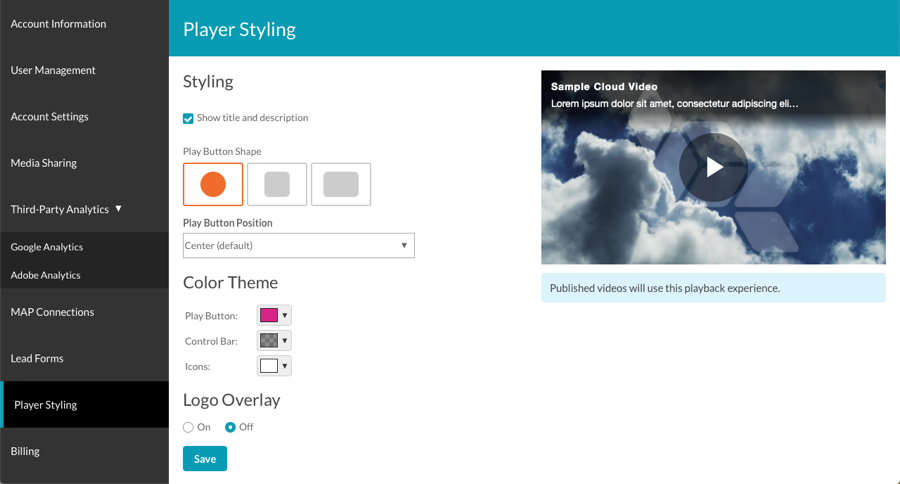
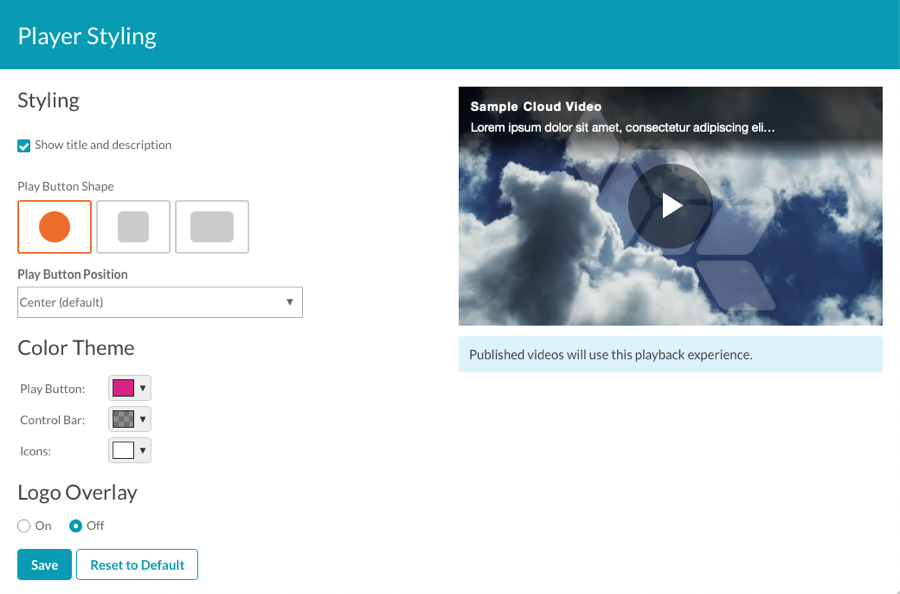
player styling reset and update product update page

diff --git a/vendor/bundle/ruby/2.6.0/gems/jekyll-4.1.1/lib/theme_template/example/style.css b/vendor/bundle/ruby/2.6.0/gems/jekyll-4.1.1/lib/theme_template/example/style.css
@@ -1,0 +1,35 @@
+/*
+Error: Invalid CSS after "...from-my-theme";": expected "{", was ""
+        on line 8 of /Users/bbailey/git/campaign/vendor/bundle/ruby/2.6.0/gems/jekyll-4.1.1/lib/theme_template/example/style.scss
+
+3: 
+4: // Here, you can test out the Sass/SCSS that you include in your theme.
+5: // Simply `@import` the necessary file(s) to get the proper styles on the site.
+6: // E.g.:
+7: //   @import "a-file-from-my-theme";
+
+Backtrace:
+/Users/bbailey/git/campaign/vendor/bundle/ruby/2.6.0/gems/jekyll-4.1.1/lib/theme_template/example/style.scss:8
+/Applications/Adobe Dreamweaver 2020/Adobe Dreamweaver 2020.app/Contents/Resources/gems/rubygems/gems/sass-3.7.4/lib/sass/scss/parser.rb:1308:in `expected'
+/Applications/Adobe Dreamweaver 2020/Adobe Dreamweaver 2020.app/Contents/Resources/gems/rubygems/gems/sass-3.7.4/lib/sass/scss/parser.rb:1238:in `expected'
+/Applications/Adobe Dreamweaver 2020/Adobe Dreamweaver 2020.app/Contents/Resources/gems/rubygems/gems/sass-3.7.4/lib/sass/scss/parser.rb:1233:in `tok!'
+/Applications/Adobe Dreamweaver 2020/Adobe Dreamweaver 2020.app/Contents/Resources/gems/rubygems/gems/sass-3.7.4/lib/sass/scss/parser.rb:688:in `block'
+/Applications/Adobe Dreamweaver 2020/Adobe Dreamweaver 2020.app/Contents/Resources/gems/rubygems/gems/sass-3.7.4/lib/sass/scss/parser.rb:681:in `ruleset'
+/Applications/Adobe Dreamweaver 2020/Adobe Dreamweaver 2020.app/Contents/Resources/gems/rubygems/gems/sass-3.7.4/lib/sass/scss/parser.rb:707:in `block_child'
+/Applications/Adobe Dreamweaver 2020/Adobe Dreamweaver 2020.app/Contents/Resources/gems/rubygems/gems/sass-3.7.4/lib/sass/scss/parser.rb:697:in `block_contents'
+/Applications/Adobe Dreamweaver 2020/Adobe Dreamweaver 2020.app/Contents/Resources/gems/rubygems/gems/sass-3.7.4/lib/sass/scss/parser.rb:137:in `stylesheet'
+/Applications/Adobe Dreamweaver 2020/Adobe Dreamweaver 2020.app/Contents/Resources/gems/rubygems/gems/sass-3.7.4/lib/sass/scss/parser.rb:41:in `parse'
+/Applications/Adobe Dreamweaver 2020/Adobe Dreamweaver 2020.app/Contents/Resources/gems/rubygems/gems/sass-3.7.4/lib/sass/engine.rb:414:in `_to_tree'
+/Applications/Adobe Dreamweaver 2020/Adobe Dreamweaver 2020.app/Contents/Resources/gems/rubygems/gems/sass-3.7.4/lib/sass/engine.rb:290:in `render'
+/Applications/Adobe Dreamweaver 2020/Adobe Dreamweaver 2020.app/Contents/Resources/gems/rubygems/gems/sass-3.7.4/lib/sass/exec/sass_scss.rb:396:in `run'
+/Applications/Adobe Dreamweaver 2020/Adobe Dreamweaver 2020.app/Contents/Resources/gems/rubygems/gems/sass-3.7.4/lib/sass/exec/sass_scss.rb:63:in `process_result'
+/Applications/Adobe Dreamweaver 2020/Adobe Dreamweaver 2020.app/Contents/Resources/gems/rubygems/gems/sass-3.7.4/lib/sass/exec/base.rb:50:in `parse'
+/Applications/Adobe Dreamweaver 2020/Adobe Dreamweaver 2020.app/Contents/Resources/gems/rubygems/gems/sass-3.7.4/lib/sass/exec/base.rb:18:in `parse!'
+/Applications/Adobe Dreamweaver 2020/Adobe Dreamweaver 2020.app/Contents/Resources/gems/rubygems/gems/sass-3.7.4/bin/sass:13:in `<top (required)>'
+/Applications/Adobe Dreamweaver 2020/Adobe Dreamweaver 2020.app/Contents/Resources/gems/bin/sass:34:in `load'
+/Applications/Adobe Dreamweaver 2020/Adobe Dreamweaver 2020.app/Contents/Resources/gems/bin/sass:34:in `<main>'
+*/
+body:before {
+  white-space: pre;
+  font-family: monospace;
+  content: "Error: Invalid CSS after \"...from-my-theme\";\": expected \"{\", was \"\"\A         on line 8 of /Users/bbailey/git/campaign/vendor/bundle/ruby/2.6.0/gems/jekyll-4.1.1/lib/theme_template/example/style.scss\A \A 3: \A 4: // Here, you can test out the Sass/SCSS that you include in your theme.\A 5: // Simply `@import` the necessary file(s) to get the proper styles on the site.\A 6: // E.g.:\A 7: //   @import \"a-file-from-my-theme\";"; }

diff --git a/vendor/bundle/ruby/2.6.0/gems/jekyll-4.1.1/lib/blank_template/assets/css/main.css b/vendor/bundle/ruby/2.6.0/gems/jekyll-4.1.1/lib/blank_template/assets/css/main.css
@@ -1,0 +1,34 @@
+/*
+Error: Invalid CSS after "@import "main"": expected "{", was ";"
+        on line 4 of /Users/bbailey/git/campaign/vendor/bundle/ruby/2.6.0/gems/jekyll-4.1.1/lib/blank_template/assets/css/main.scss
+
+1: ---
+2: ---
+3: 
+4: @import "main";
+
+Backtrace:
+/Users/bbailey/git/campaign/vendor/bundle/ruby/2.6.0/gems/jekyll-4.1.1/lib/blank_template/assets/css/main.scss:4
+/Applications/Adobe Dreamweaver 2020/Adobe Dreamweaver 2020.app/Contents/Resources/gems/rubygems/gems/sass-3.7.4/lib/sass/scss/parser.rb:1308:in `expected'
+/Applications/Adobe Dreamweaver 2020/Adobe Dreamweaver 2020.app/Contents/Resources/gems/rubygems/gems/sass-3.7.4/lib/sass/scss/parser.rb:1238:in `expected'
+/Applications/Adobe Dreamweaver 2020/Adobe Dreamweaver 2020.app/Contents/Resources/gems/rubygems/gems/sass-3.7.4/lib/sass/scss/parser.rb:1233:in `tok!'
+/Applications/Adobe Dreamweaver 2020/Adobe Dreamweaver 2020.app/Contents/Resources/gems/rubygems/gems/sass-3.7.4/lib/sass/scss/parser.rb:688:in `block'
+/Applications/Adobe Dreamweaver 2020/Adobe Dreamweaver 2020.app/Contents/Resources/gems/rubygems/gems/sass-3.7.4/lib/sass/scss/parser.rb:681:in `ruleset'
+/Applications/Adobe Dreamweaver 2020/Adobe Dreamweaver 2020.app/Contents/Resources/gems/rubygems/gems/sass-3.7.4/lib/sass/scss/parser.rb:707:in `block_child'
+/Applications/Adobe Dreamweaver 2020/Adobe Dreamweaver 2020.app/Contents/Resources/gems/rubygems/gems/sass-3.7.4/lib/sass/scss/parser.rb:697:in `block_contents'
+/Applications/Adobe Dreamweaver 2020/Adobe Dreamweaver 2020.app/Contents/Resources/gems/rubygems/gems/sass-3.7.4/lib/sass/scss/parser.rb:137:in `stylesheet'
+/Applications/Adobe Dreamweaver 2020/Adobe Dreamweaver 2020.app/Contents/Resources/gems/rubygems/gems/sass-3.7.4/lib/sass/scss/parser.rb:41:in `parse'
+/Applications/Adobe Dreamweaver 2020/Adobe Dreamweaver 2020.app/Contents/Resources/gems/rubygems/gems/sass-3.7.4/lib/sass/engine.rb:414:in `_to_tree'
+/Applications/Adobe Dreamweaver 2020/Adobe Dreamweaver 2020.app/Contents/Resources/gems/rubygems/gems/sass-3.7.4/lib/sass/engine.rb:290:in `render'
+/Applications/Adobe Dreamweaver 2020/Adobe Dreamweaver 2020.app/Contents/Resources/gems/rubygems/gems/sass-3.7.4/lib/sass/exec/sass_scss.rb:396:in `run'
+/Applications/Adobe Dreamweaver 2020/Adobe Dreamweaver 2020.app/Contents/Resources/gems/rubygems/gems/sass-3.7.4/lib/sass/exec/sass_scss.rb:63:in `process_result'
+/Applications/Adobe Dreamweaver 2020/Adobe Dreamweaver 2020.app/Contents/Resources/gems/rubygems/gems/sass-3.7.4/lib/sass/exec/base.rb:50:in `parse'
+/Applications/Adobe Dreamweaver 2020/Adobe Dreamweaver 2020.app/Contents/Resources/gems/rubygems/gems/sass-3.7.4/lib/sass/exec/base.rb:18:in `parse!'
+/Applications/Adobe Dreamweaver 2020/Adobe Dreamweaver 2020.app/Contents/Resources/gems/rubygems/gems/sass-3.7.4/bin/sass:13:in `<top (required)>'
+/Applications/Adobe Dreamweaver 2020/Adobe Dreamweaver 2020.app/Contents/Resources/gems/bin/sass:34:in `load'
+/Applications/Adobe Dreamweaver 2020/Adobe Dreamweaver 2020.app/Contents/Resources/gems/bin/sass:34:in `<main>'
+*/
+body:before {
+  white-space: pre;
+  font-family: monospace;
+  content: "Error: Invalid CSS after \"@import \"main\"\": expected \"{\", was \";\"\A         on line 4 of /Users/bbailey/git/campaign/vendor/bundle/ruby/2.6.0/gems/jekyll-4.1.1/lib/blank_template/assets/css/main.scss\A \A 1: ---\A 2: ---\A 3: \A 4: @import \"main\";"; }

diff --git a/_site/admin/styling-players.html b/_site/admin/styling-players.html
@@ -393,7 +393,8 @@ function doGTranslate(lang_pair) {if(lang_pair.value)lang_pair=lang_pair.value;i
     <p>Some basic player styling options can be configured using the administration menu. To configure the player <strong>Styling</strong> settings, follow these steps:</p>
     <ol class="bcls-tasklist-restart">
       <li>In the navigation header, click the administration icon (<img class="bcls-image--no-border" alt="" src="/assets/images/admin/gear-icon.png" />) and then <strong> Player Styling</strong>.</li>
-    <figure class="bcls-figure"><img class="bcls-image--no-border" alt="style menu" src="/assets/images/admin/styling-settings.png" /></figure></ol>
+      <figure class="bcls-figure"><img class="bcls-image--no-border" alt="style menu" src="/assets/images/admin/styling-settings.png" /></figure>
+    </ol>
     <p>The following style settings can be configured:</p>
     <ul>
       <li><a href="#title_desc">Title and description</a></li>
@@ -402,7 +403,7 @@ function doGTranslate(lang_pair) {if(lang_pair.value)lang_pair=lang_pair.value;i
       <li><a href="#color_theme">Color Theme</a></li>
       <li><a href="#logo_overlay">Logo Overlay</a></li>
     </ul>
-    <p>After any changes have been made, make sure to click <strong> Save</strong> for the changes to be visible.</p>
+    <p>After any changes have been made, make sure to click <strong> Save</strong> for the changes to be visible. To discard any styling changes you make and go back to the initial player styling, click <strong>Reset to Default</strong>.</p>
     <aside class="bcls-aside bcls-aside--information">Note: Any changes made to a player may take up to 5 minutes to appear in published players.</aside>
   </section>
   <section class="bcls-section">

diff --git a/admin/styling-players.html b/admin/styling-players.html
@@ -9,7 +9,8 @@ parent: Administering Accounts
     <p>Some basic player styling options can be configured using the administration menu. To configure the player <strong>Styling</strong> settings, follow these steps:</p>
     <ol class="bcls-tasklist-restart">
       <li>In the navigation header, click the administration icon (<img class="bcls-image--no-border" alt="" src="/assets/images/admin/gear-icon.png" />) and then <strong> Player Styling</strong>.</li>
-    <figure class="bcls-figure"><img class="bcls-image--no-border" alt="style menu" src="/assets/images/admin/styling-settings.png" /></figure></ol>
+      <figure class="bcls-figure"><img class="bcls-image--no-border" alt="style menu" src="/assets/images/admin/styling-settings.png" /></figure>
+    </ol>
     <p>The following style settings can be configured:</p>
     <ul>
       <li><a href="#title_desc">Title and description</a></li>
@@ -18,7 +19,7 @@ parent: Administering Accounts
       <li><a href="#color_theme">Color Theme</a></li>
       <li><a href="#logo_overlay">Logo Overlay</a></li>
     </ul>
-    <p>After any changes have been made, make sure to click <strong> Save</strong> for the changes to be visible.</p>
+    <p>After any changes have been made, make sure to click <strong> Save</strong> for the changes to be visible. To discard any styling changes you make and go back to the initial player styling, click <strong>Reset to Default</strong>.</p>
     <aside class="bcls-aside bcls-aside--information">Note: Any changes made to a player may take up to 5 minutes to appear in published players.</aside>
   </section>
   <section class="bcls-section">

diff --git a/_site/release-notes/2020.html b/_site/release-notes/2020.html
@@ -390,13 +390,19 @@ function doGTranslate(lang_pair) {if(lang_pair.value)lang_pair=lang_pair.value;i
   <h1>Brightcove Campaign&trade; Product Updates</h1>
   <summary>This topic outlines the updates that have been made to the Brightcove Campaign application.</summary>
   <section class="bcls-section">
-      <h2>Chrome Extension 2.0.5</h2>
+    <h2>Reset Player Styling</h2>
+    <h4>15 July 2020</h4>
+    <ul>
+      <li>It is now possible to reset the player styling settings back to the default. For more information, see <a href="/admin/styling-players.html">Styling Players</a>.</li>
+    </ul>
+    <hr/>
+    <h2>Chrome Extension 2.0.5</h2>
     <h4>17 Jun 2020</h4>
     <ul>
       <li>Updated sign in form tabbing order</li>
     </ul>
     <hr />
-      <h2>v 1.4.0</h2>
+    <h2>v 1.4.0</h2>
     <h4>11 Jun 2020</h4>
     <ul>
       <li>Improved error handling and messaging</li>

diff --git a/release-notes/2020.html b/release-notes/2020.html
@@ -7,13 +7,19 @@ description: Brightcove Campaign Release Notes
   <h1>Brightcove Campaign&trade; Product Updates</h1>
   <summary>This topic outlines the updates that have been made to the Brightcove Campaign application.</summary>
   <section class="bcls-section">
-      <h2>Chrome Extension 2.0.5</h2>
+    <h2>Reset Player Styling</h2>
+    <h4>15 July 2020</h4>
+    <ul>
+      <li>It is now possible to reset the player styling settings back to the default. For more information, see <a href="/admin/styling-players.html">Styling Players</a>.</li>
+    </ul>
+    <hr/>
+    <h2>Chrome Extension 2.0.5</h2>
     <h4>17 Jun 2020</h4>
     <ul>
       <li>Updated sign in form tabbing order</li>
     </ul>
     <hr />
-      <h2>v 1.4.0</h2>
+    <h2>v 1.4.0</h2>
     <h4>11 Jun 2020</h4>
     <ul>
       <li>Improved error handling and messaging</li>

diff --git a/vendor/bundle/ruby/2.6.0/gems/sassc-2.3.0/test/fixtures/paths.css b/vendor/bundle/ruby/2.6.0/gems/sassc-2.3.0/test/fixtures/paths.css
@@ -1,0 +1,9 @@
+div {
+  url: url(asset-path("foo.svg"));
+  url: url(image-path("foo.png"));
+  url: url(video-path("foo.mov"));
+  url: url(audio-path("foo.mp3"));
+  url: url(font-path("foo.woff"));
+  url: url(javascript-path("foo.js"));
+  url: url(javascript-path("foo.js"));
+  url: url(stylesheet-path("foo.css")); }

diff --git a/vendor/bundle/ruby/2.6.0/gems/jekyll-4.1.1/lib/blank_template/_sass/main.css b/vendor/bundle/ruby/2.6.0/gems/jekyll-4.1.1/lib/blank_template/_sass/main.css
@@ -1,0 +1,4 @@
+body {
+  background: #ffffff;
+  color: #000000;
+  font-family: -apple-system, BlinkMacSystemFont, "Segoe UI", Helvetica, Arial, sans-serif, "Apple Color Emoji", "Segoe UI Emoji", "Segoe UI Symbol"; }
